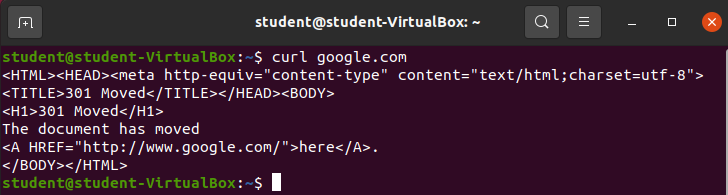
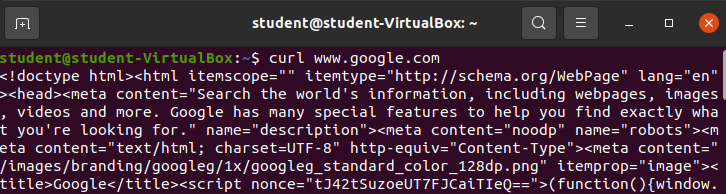
created a repo for .jar file, added in pictures for validation on curl requests to spring-todo-api, updated recap section

diff --git a/content/userspace-applications/walkthrough/curl/_index.md b/content/userspace-applications/walkthrough/curl/_index.md
@@ -13,7 +13,8 @@ lastMod: 2022-03-22 # UPDATE ANY TIME CHANGES ARE MADE
 ---
 
 {{% notice note %}}
-This walkthrough will be utilizing a java spring api. 
+This walkthrough will utilize a Java Spring Rest API. Clone the following github url and run the .jar file within: `https://github.com/LaunchCodeTechnicalTraining/spring-todo-api-jar`
+![git-clone-jar](pictures/git-clone-jar.png?classes=border)
 {{% /notice %}}
 
 ## Name
@@ -39,14 +40,14 @@ Great for debugging and troubleshooting web application servers and APIs.
 Make a curl request to `google.com` receiving an HTML object as a response.
 
 ```bash
-curl google.com
+curl www.google.com
 ```
 
 Result:
 ![curl-google.com](pictures/curl-google.com.png?classes=border)
 
 {{% notice green "Bonus" "rocket" %}}
-You will notice that the request page `google.com` has been moved. You can add the `-L` or `--location` option to redo the request on a new place. Try `curl -L google.com`
+If you try to send a `GET` request to "google.com" you will receive a notification the document has been moved. If you were to run the request again with the -L option to follow the redirect of the new location you would have the correct response.
 {{% /notice %}}
 
 {{% notice note %}}
@@ -64,36 +65,62 @@ By default curl will automatically send a `HTTP GET` request. To send other type
 
 Using the java-todo-api you will practice following curl requests:
 
-Create a GET request with JSON attached
+### Make a `GET` request with JSON attached
  ```bash
  curl localhost:8080/todos -H Content-Type:application/json
  ```
-Create a POST request with JSON attached
+
+![curl-get-json](pictures/curl-get-json.png?classes=border)
+
+### Make a `POST` request with JSON attached
 ```bash
 curl -X POST localhost:8080/todos -H Content-Type:application/json -d '{"text":"the first task"}'
 ```
-Create a PATCH request with JSON attached
+
+![curl-post-json](pictures/curl-post-json.png?classes=border)
+
+### Make a `PATCH` request with JSON attached
 ```bash
-curl -X PATCH localhost:8080/todos/{id} -H 'Content-Type:application/json'
+curl -X PATCH localhost:8080/todos/1 -H 'Content-Type:application/json'
 ```
 
+![curl-patch-json](pictures/curl-patch-json.png?classes=border)
+
 {{% notice note %}}
-You will need to replace the `{id}` portion of the above curl request with an existing todo id.
+You will need to replace the `{id}` portion of the above curl request which is represented with a **"1"** with an existing todo id.
 {{% /notice %}}
 
-Create a DELETE request
+
+### Validation:
+
+You have created a new todo through a POST request and made a minor update with a PATCH request. Check your changes with another GET request:
+
+```bash
+curl localhost:8080/todos
+```
+
+![curl-validation](pictures/curl-validation.png?classes=border)
+
+### Make a `DELETE` request
 ```bash
 curl -X DELETE localhost:8080/todos/{id}
 ```
 
+![curl-delete-request](pictures/curl-delete-request.png?classes=border)
+
 {{% notice note %}}
-You will need to replace the `{id}` portion of the above curl request with an existing todo id.
+You will need to replace the `{id}` portion of the above curl request which is represented with a **"1"** with an existing todo id.
 {{% /notice %}}
 
-<!-- TODO: Add Validation for the above curl requests -->
-
-### Necessary Options
-
-- `-X [HTTP METHOD]`: This syntax designates what type of HTTP Method you are sending to the server (**GET,POST,PUT,PATCH,DELETE**)
-- `-H 'content-type`: application/json': anytime you are sending a JSON request body you need to provide the header option
-- `-d '{"text": "dishes"}'`: the JSON request body
+## Recap:
+- curl: tool to transfer data to or from a server.
+- curl options:
+  - `-H` or `--headers`: Specify headers for request
+  - `-X` or `--request`: Specify what type of request you want to make
+  - `-s` or `--silent`: Hide progress and error messages
+  - `-d` or `--data`: Data included in POST request
+- Send HTTP requests to an existing REST API
+  - `GET`: Retrieve data from desired resource
+  - `POST`: Submit data to desired resource
+  - `PATCH`: Replace data of a desired resource
+  - `DELETE`: Delete target resource
